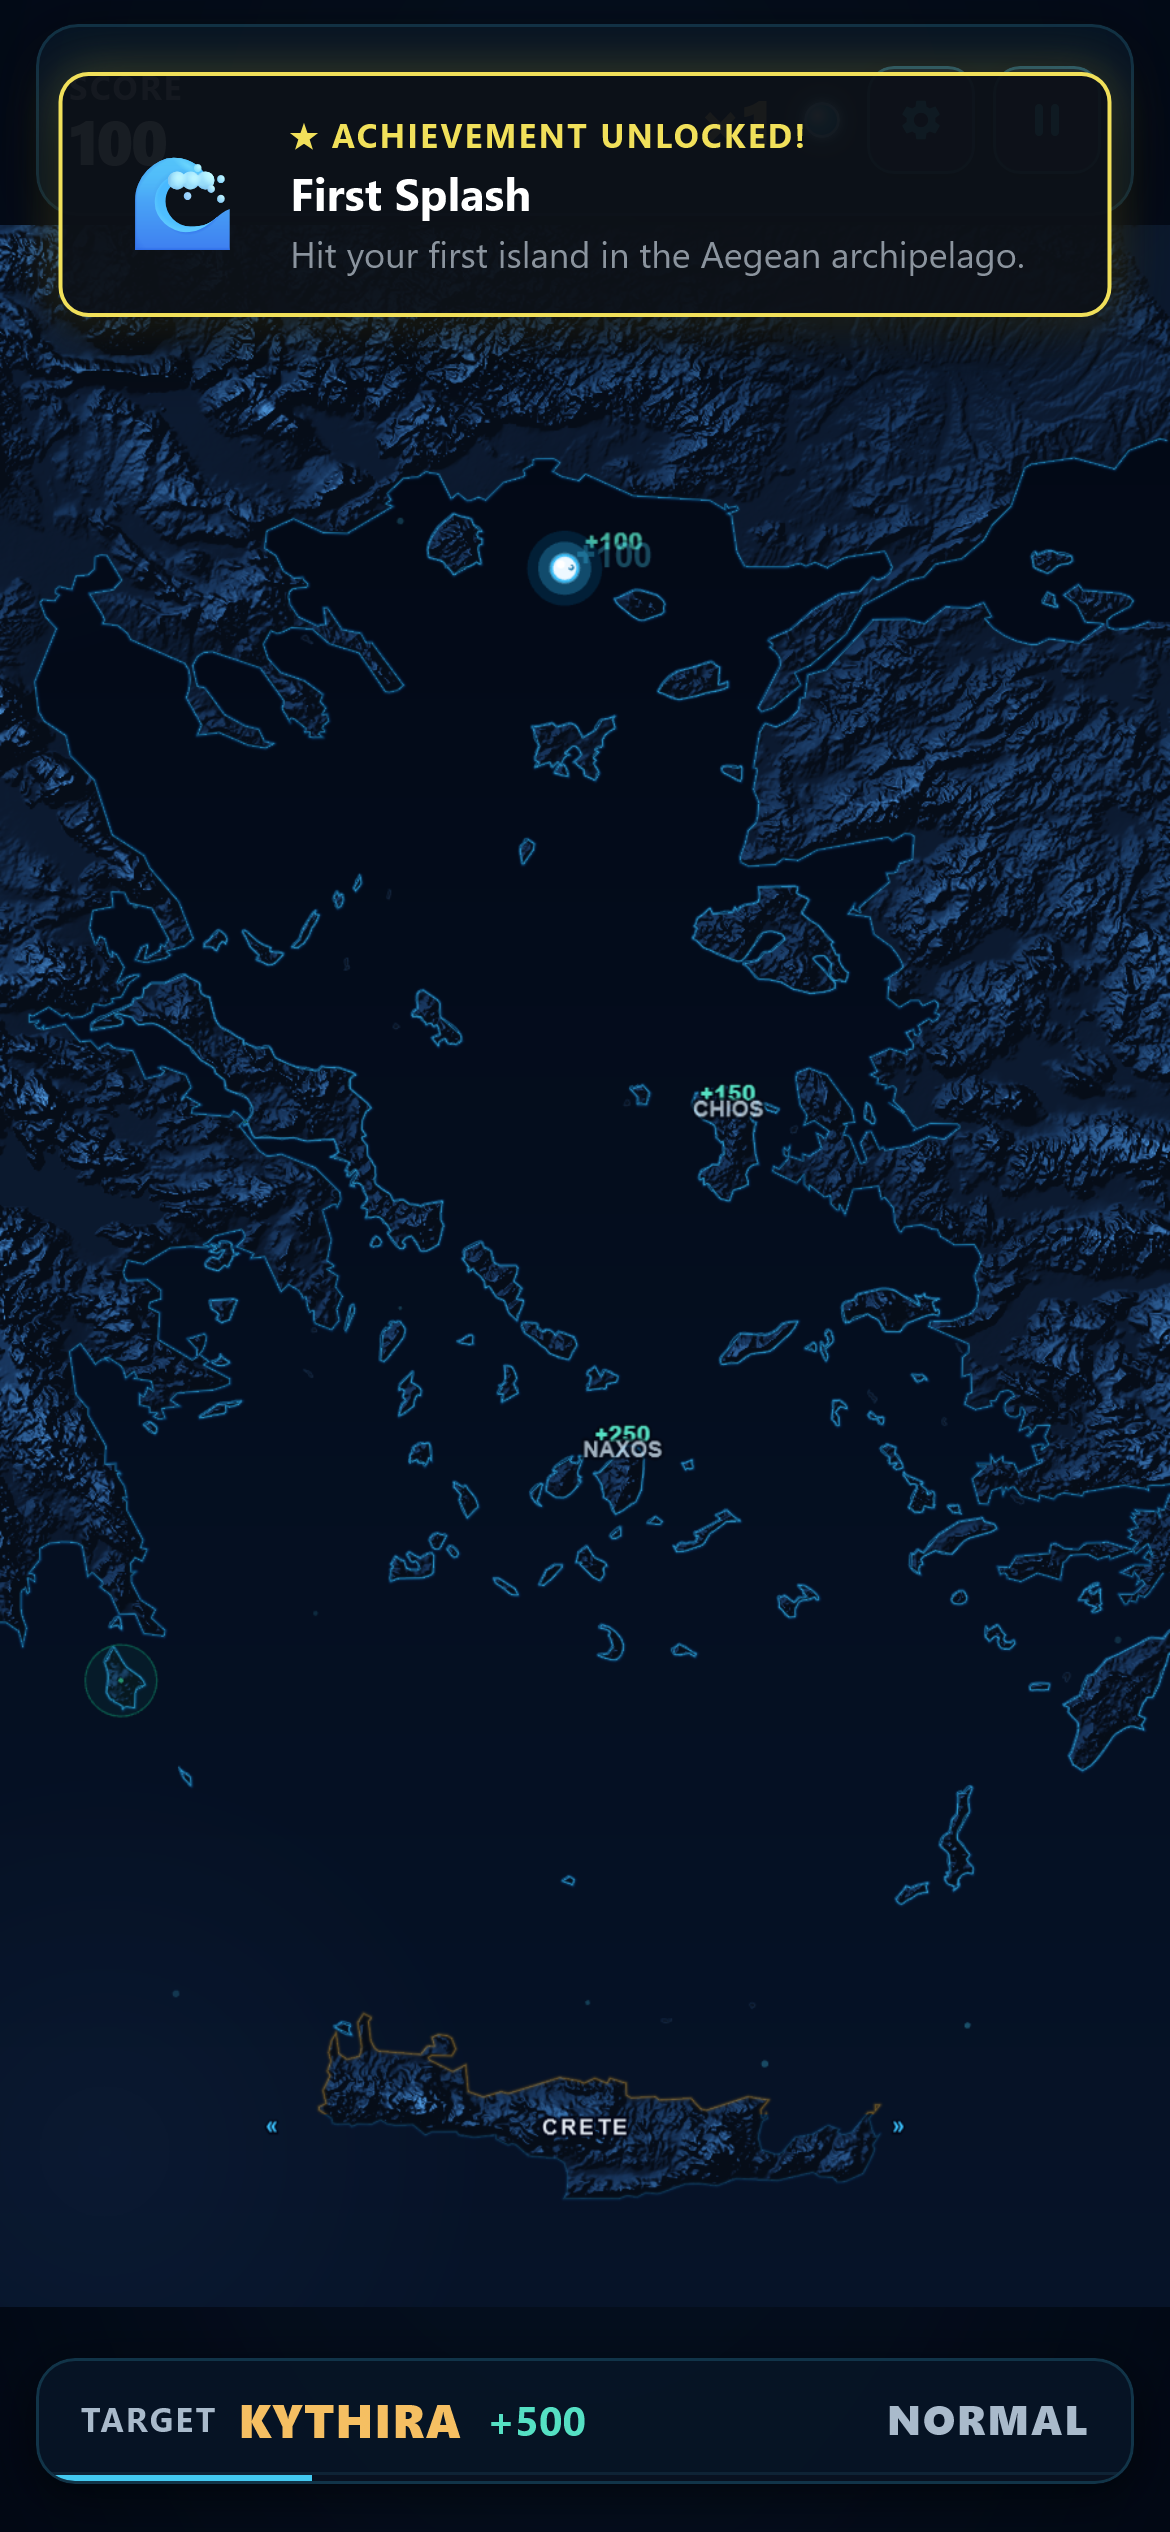
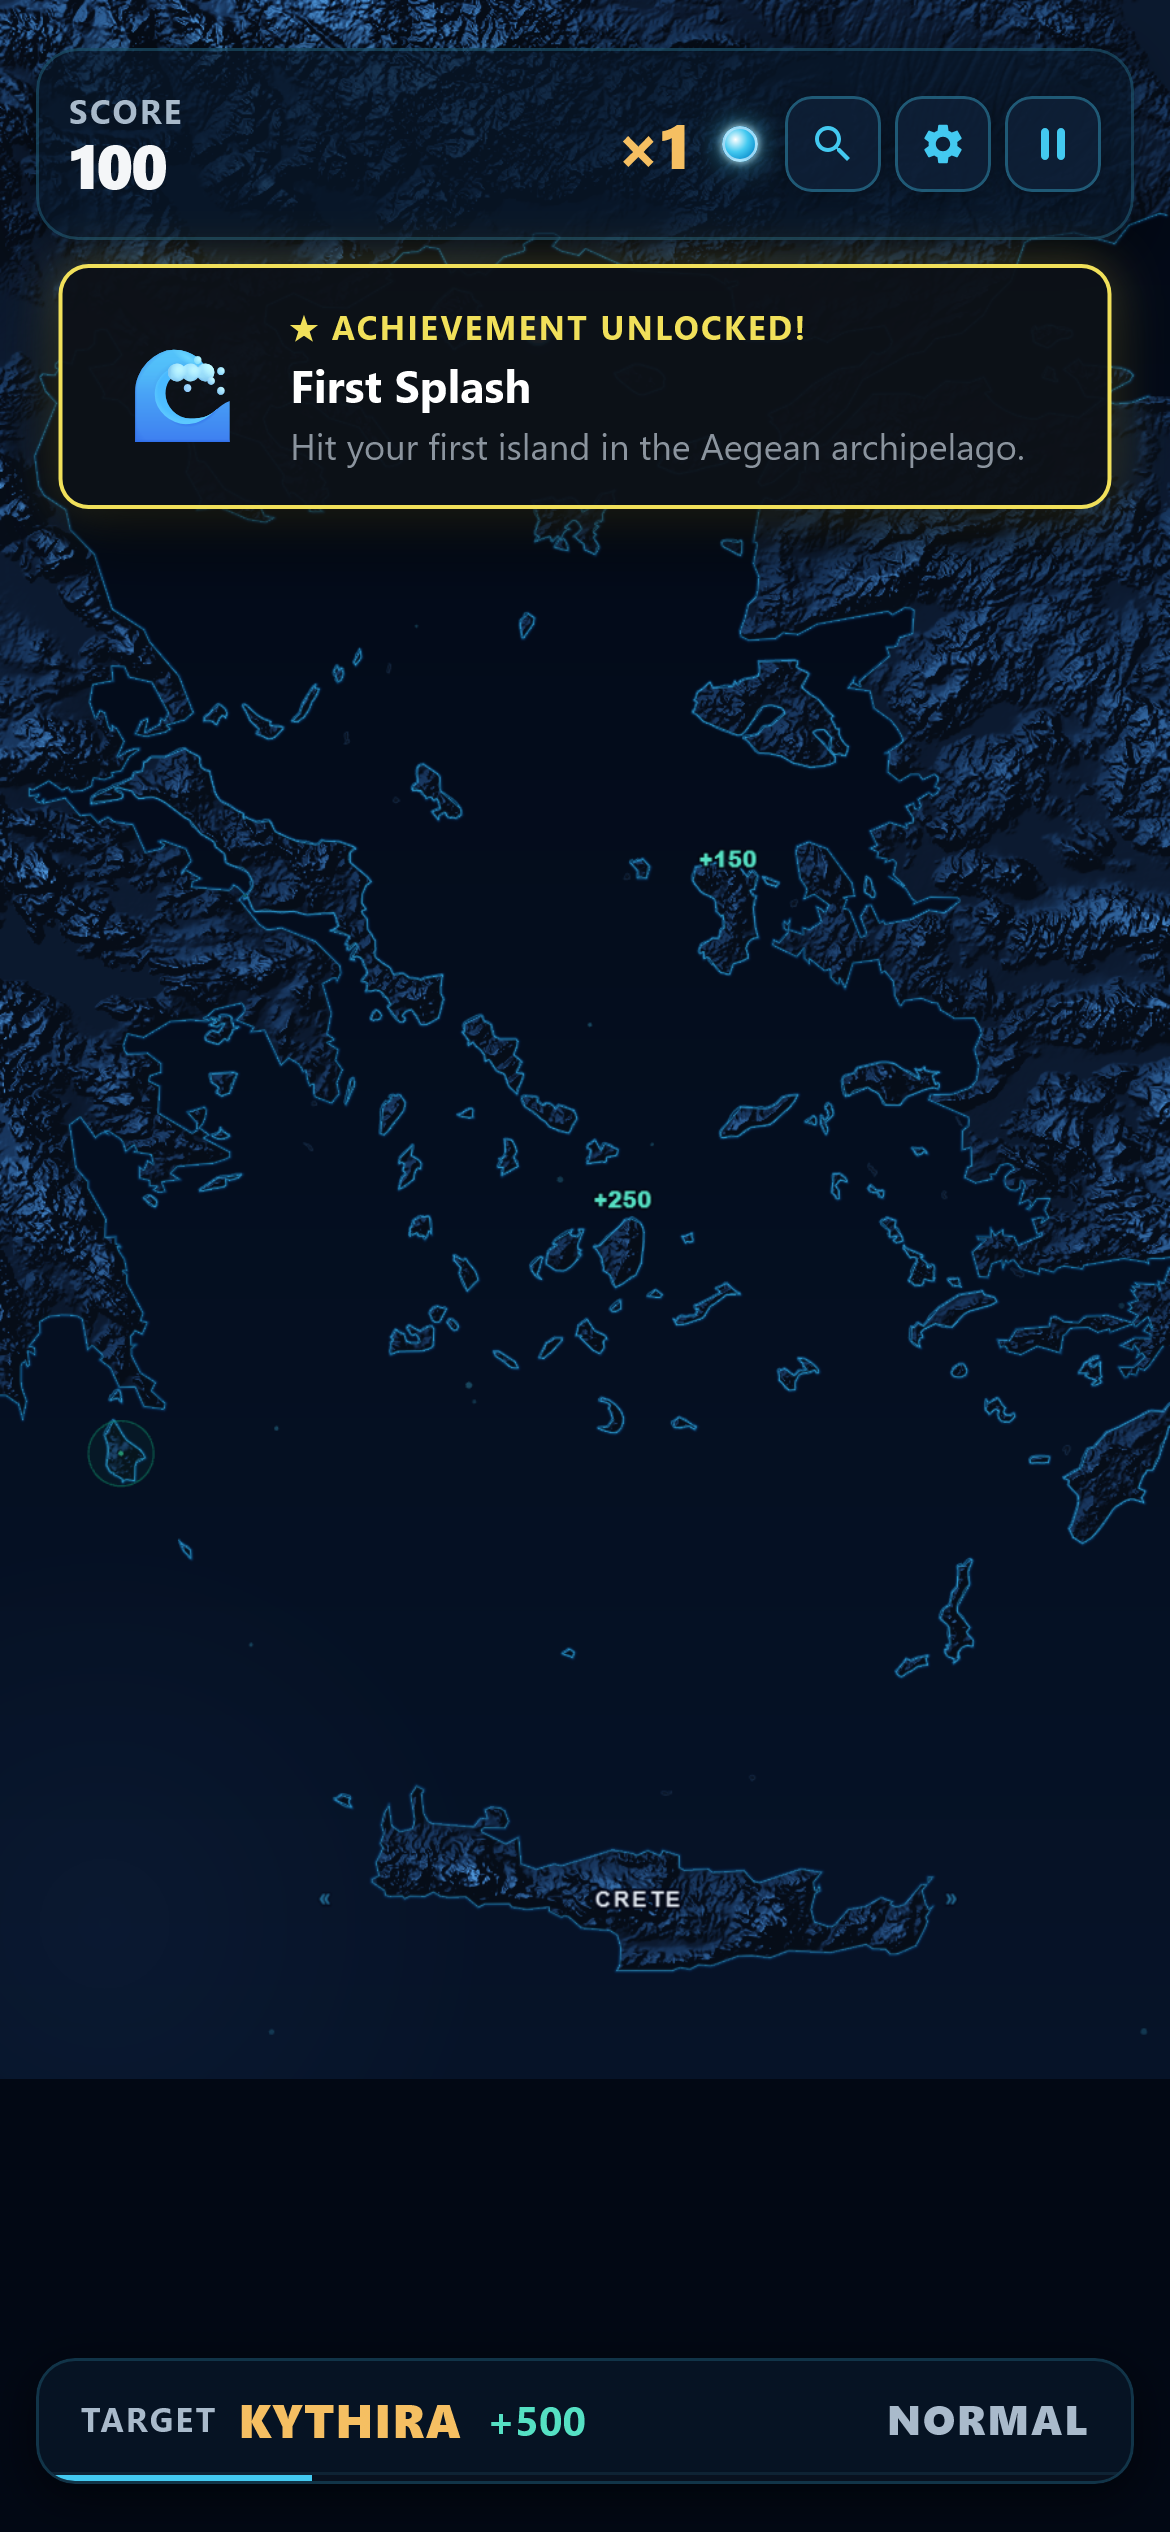
feat: extend northern terrain all the way up under HUD stats band with frosted glassmorphism

diff --git a/src/style.css b/src/style.css
@@ -65,7 +65,7 @@ body {
   height: 100%;
   display: flex;
   justify-content: center;
-  align-items: center;
+  align-items: flex-start;
   overflow: hidden;
   background-color: #020814;
 }
@@ -76,6 +76,7 @@ canvas {
   box-shadow: none !important;
   outline: none;
   border: none;
+  margin-top: 0 !important;
 }
 
 /* ==========================================================================
@@ -116,10 +117,10 @@ canvas {
   grid-template-columns: minmax(0, 1fr) auto auto auto;
   column-gap: clamp(6px, 1.8vw, 12px);
   align-items: center;
-  background: rgba(7, 21, 37, 0.85);
+  background: rgba(7, 21, 37, 0.72);
   backdrop-filter: blur(12px);
   -webkit-backdrop-filter: blur(12px);
-  border: 1px solid rgba(67, 201, 240, 0.16);
+  border: 1px solid rgba(67, 201, 240, 0.22);
   border-radius: 14px;
   box-shadow: 0 4px 20px rgba(0, 0, 0, 0.55);
   padding: 8px 10px;

diff --git a/tests/browser/phase01_geography.spec.ts b/tests/browser/phase01_geography.spec.ts
@@ -101,8 +101,8 @@ test.describe('Crete Pinball — Phase 01 Aegean Geography & Crete Movement', ()
       const devPanel = page.locator('#dev-diagnostics-panel');
       await expect(devPanel).toBeVisible();
 
-      // Initial center position is around X=450
-      await expect(devPanel).toContainText('Crete: X=450');
+      // Initial center position oscillates discovery wave around X=450 [400..500]
+      await expect(devPanel).toContainText(/Crete: X=4\d\d/);
 
       // Click in lower control zone (Y = 1200 / 1600 ~ 75%) to the left (X = 280)
       const targetLocalX = box.width * (280 / 900);

diff --git a/src/app/gameApp.ts b/src/app/gameApp.ts
@@ -37,7 +37,7 @@ export class GameApp {
       },
       scale: {
         mode: Phaser.Scale.FIT,
-        autoCenter: Phaser.Scale.CENTER_BOTH,
+        autoCenter: Phaser.Scale.CENTER_HORIZONTALLY,
         width: ARENA_CONFIG.worldWidth,
         height: ARENA_CONFIG.worldHeight,
       },
